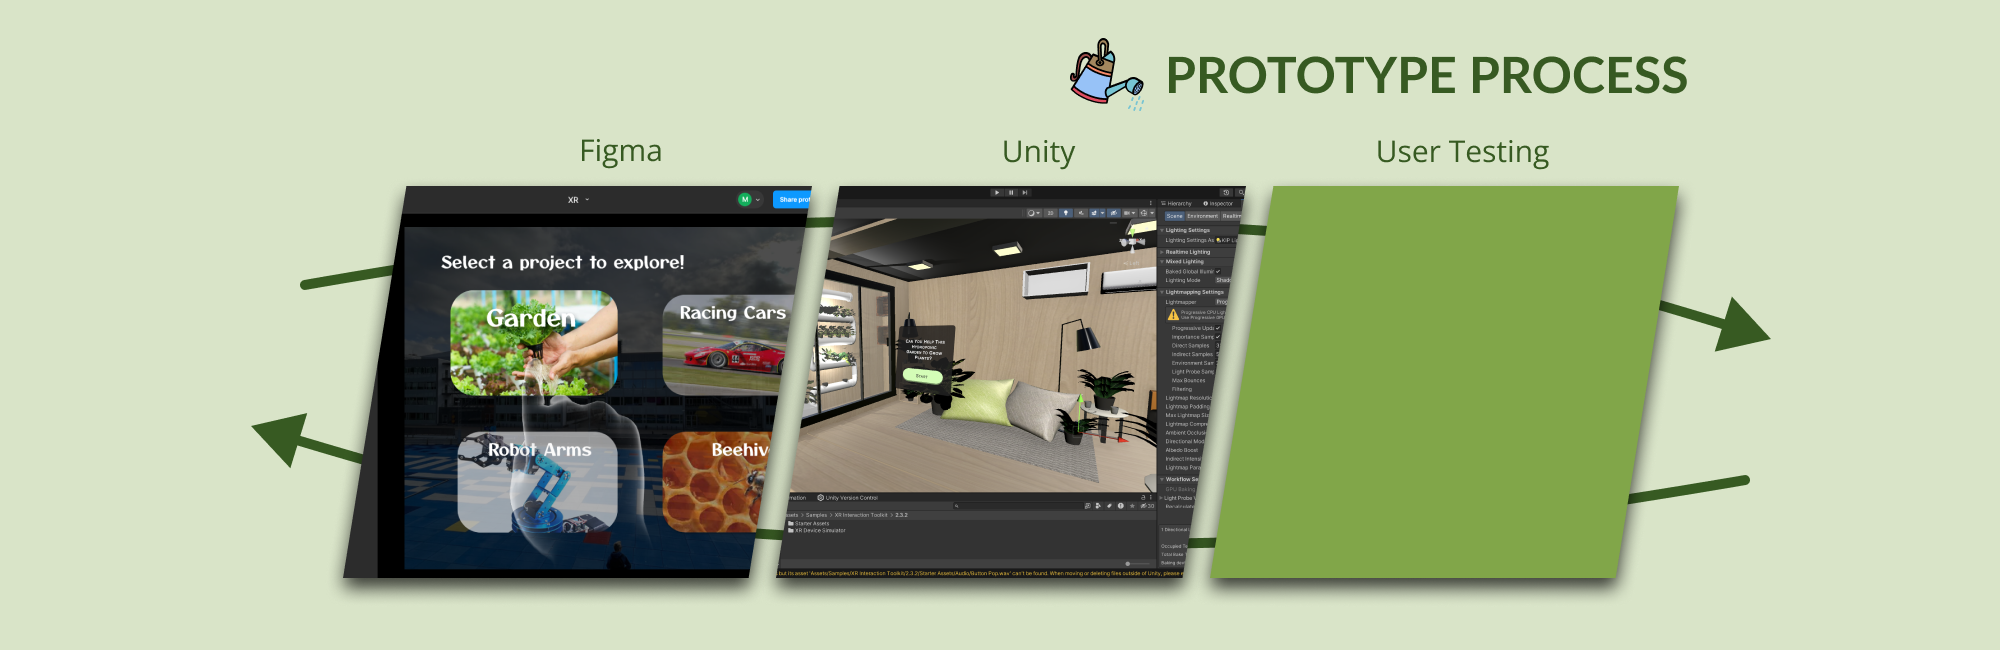
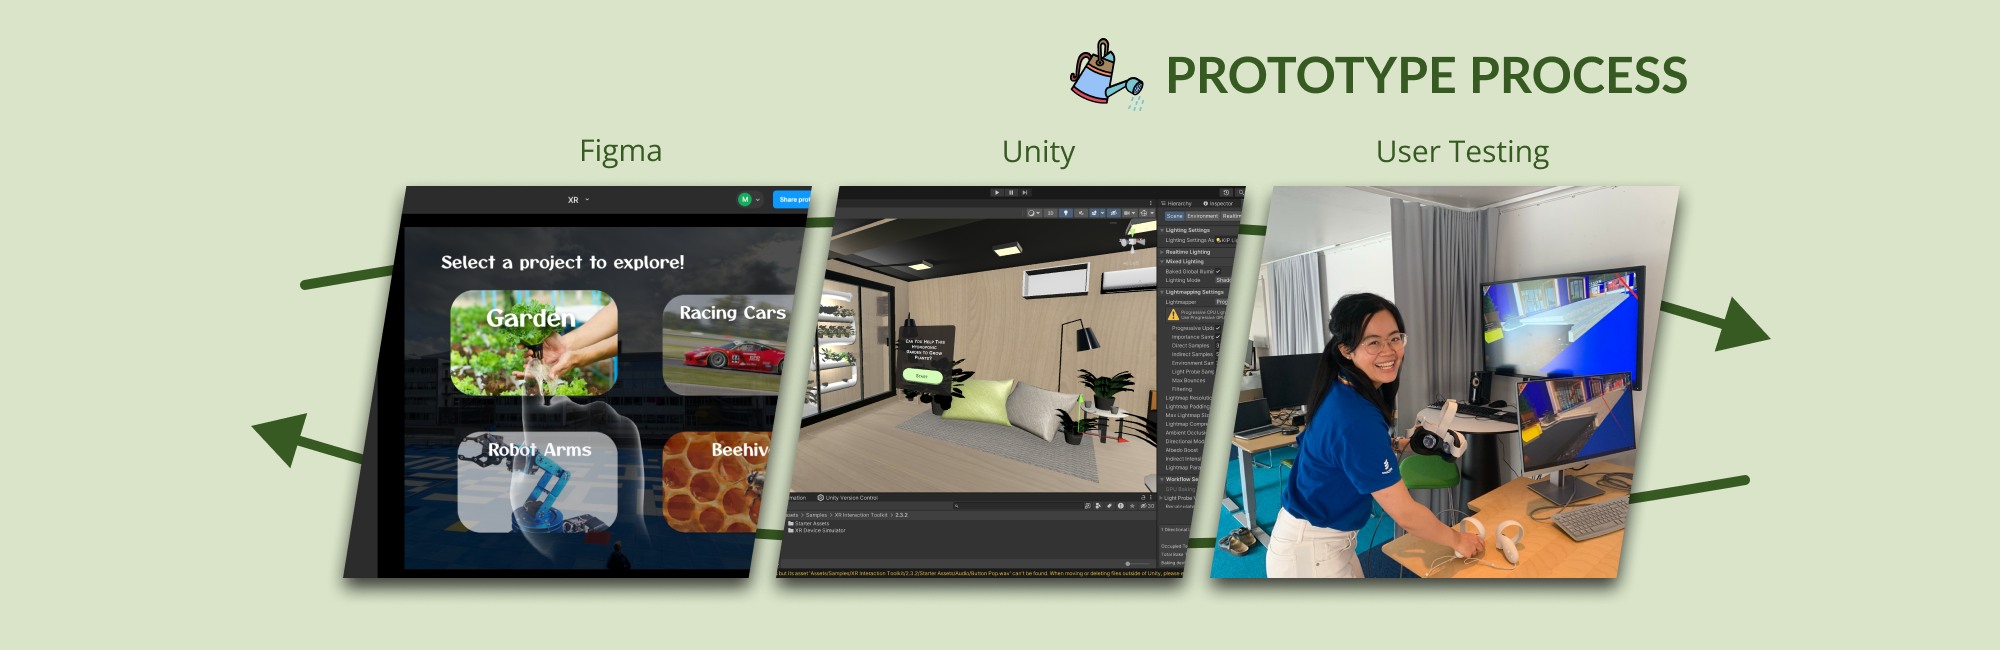
VR Garden: updated demo video and user test image.

Changed region(s): [[0.589, 0.2769, 0.837, 0.8923]]

diff --git a/projects/VRGarden/VRGarden.html b/projects/VRGarden/VRGarden.html
@@ -84,7 +84,7 @@
             <div class="w-row" data-ix="fade-in-on-scroll" style="padding-left: 15%; padding-right: 15%; padding-bottom: 5%">
                 <h2 style="text-align: center">Video demo<br><br></h2>
                 <div class="w-video">
-                    <iframe width="560" height="315" src="https://www.youtube.com/embed/4jlzZzmQIh0?si=kzUH2SNylVomPTYJ" title="YouTube video player" frameborder="0" allow="accelerometer; autoplay; clipboard-write; encrypted-media; gyroscope; picture-in-picture; web-share" referrerpolicy="strict-origin-when-cross-origin" allowfullscreen></iframe>
+                    <iframe width="560" height="315" src="https://www.youtube.com/embed/yGeh-7KHi3M?si=BQm5V-2ozvI9Cbgo" title="YouTube video player" frameborder="0" allow="accelerometer; autoplay; clipboard-write; encrypted-media; gyroscope; picture-in-picture; web-share" referrerpolicy="strict-origin-when-cross-origin" allowfullscreen></iframe>
                 </div>
             </div>
                
